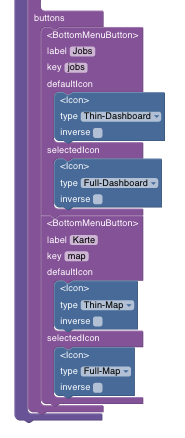
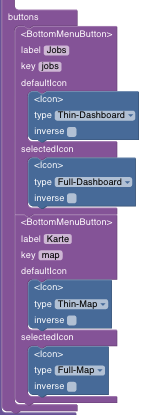
update bottom menu docs

diff --git a/sites/docs/src/content/components/BottomMenu.svelte.md b/sites/docs/src/content/components/BottomMenu.svelte.md
@@ -5,23 +5,33 @@
 
 # BottomMenu
 
-Use together with `BottomMenuButton` and `BottomMenuPage` to construct a row of buttons on the bottom to select different screens. 
+The BottomMenu is often used as the main navigation for apps.
 
-## Overview 
+![Example](/images/BottomMenuExample.png)
+
+Here's the BottomMenu in the context of an interkit app:
+
+![Example](/images/BottomMenuExampleContext.png)
+
+## How to Build
+
+Use the `BottomMenu` component together with `BottomMenuPage` and `BottomMenuButton` to construct a row of buttons on the bottom that select different screens.
+
+Arrange the components in the following way. This is an example with two buttons and two pages.
 
 - BottomMenu
-  - blocks
+  - pages
     - BottomMenuPage
       - TopNavBarCustom
     - BottomMenuPage
       - TopNavBarCustom
   - buttons
     - BottomMenuButton
-      - Icon
-      - Icon
+      - defaultIcon: Icon
+      - selectedIcon: Icon
     - BottomMenuButton
-      - Icon
-      - Icon
+      - defaultIcon: Icon
+      - selectedIcon: Icon
 
 ![Pages](/images/bottomMenuPages.png)
 ![Buttons](/images/bottomMenuButtons.png)
